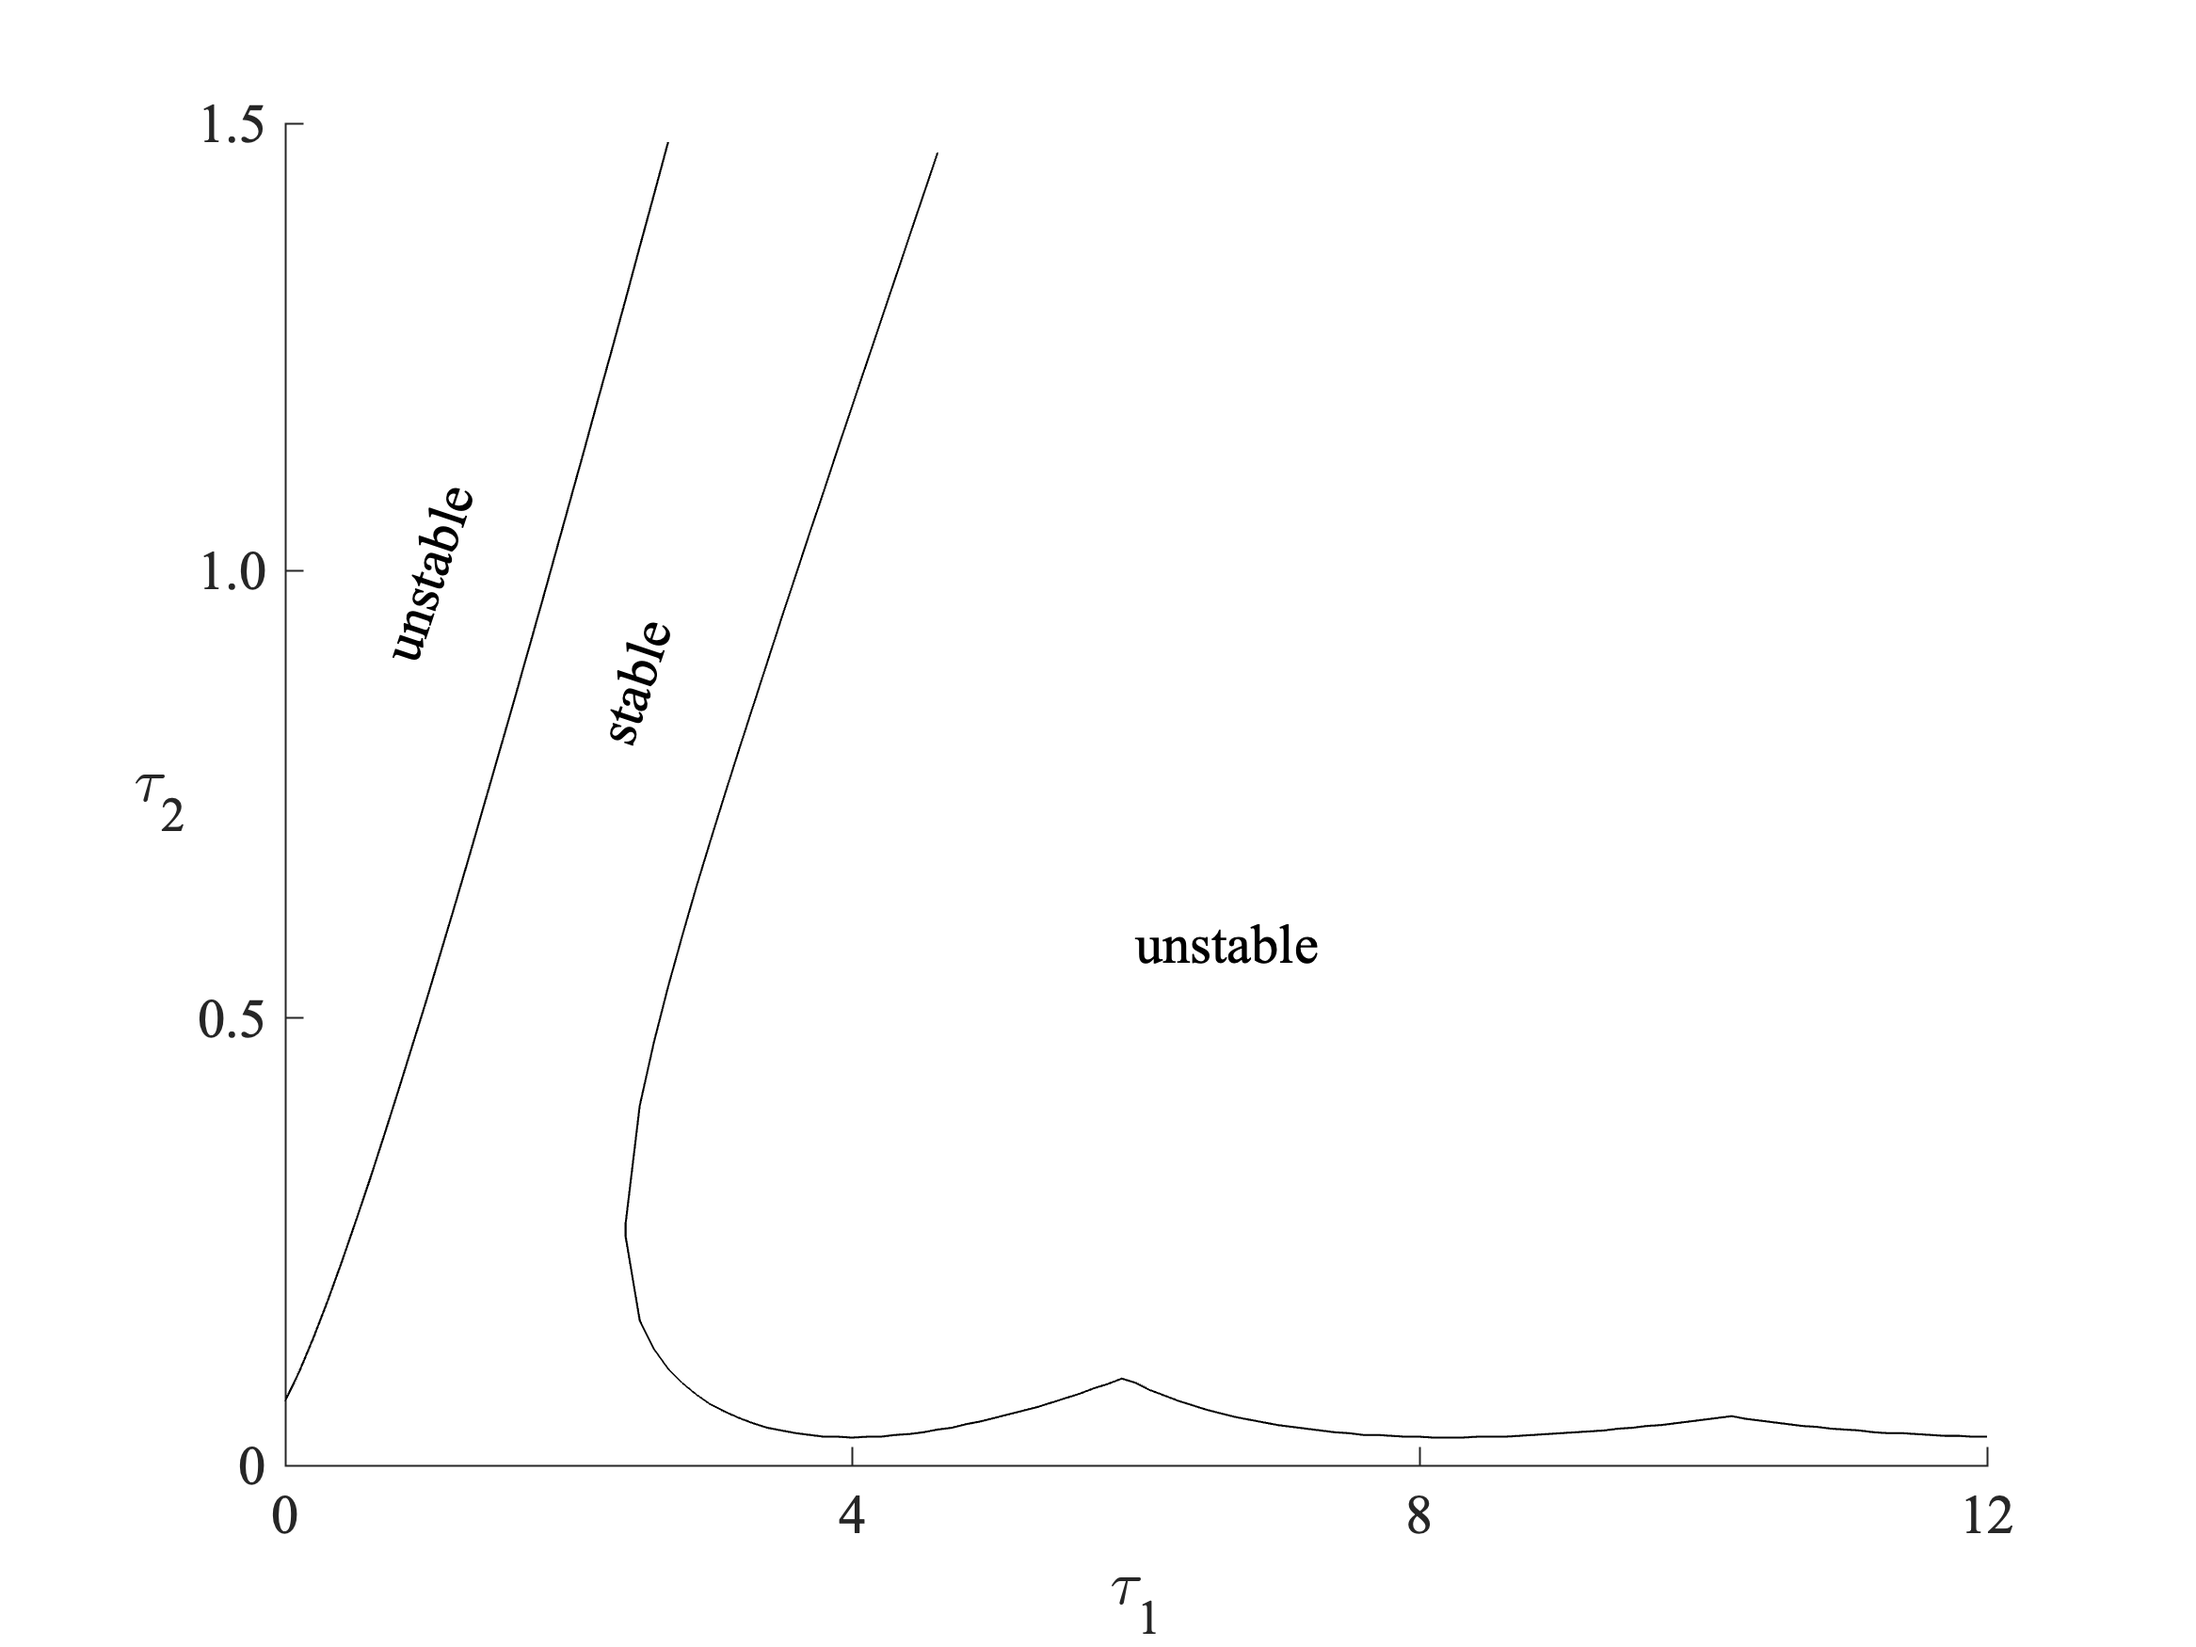
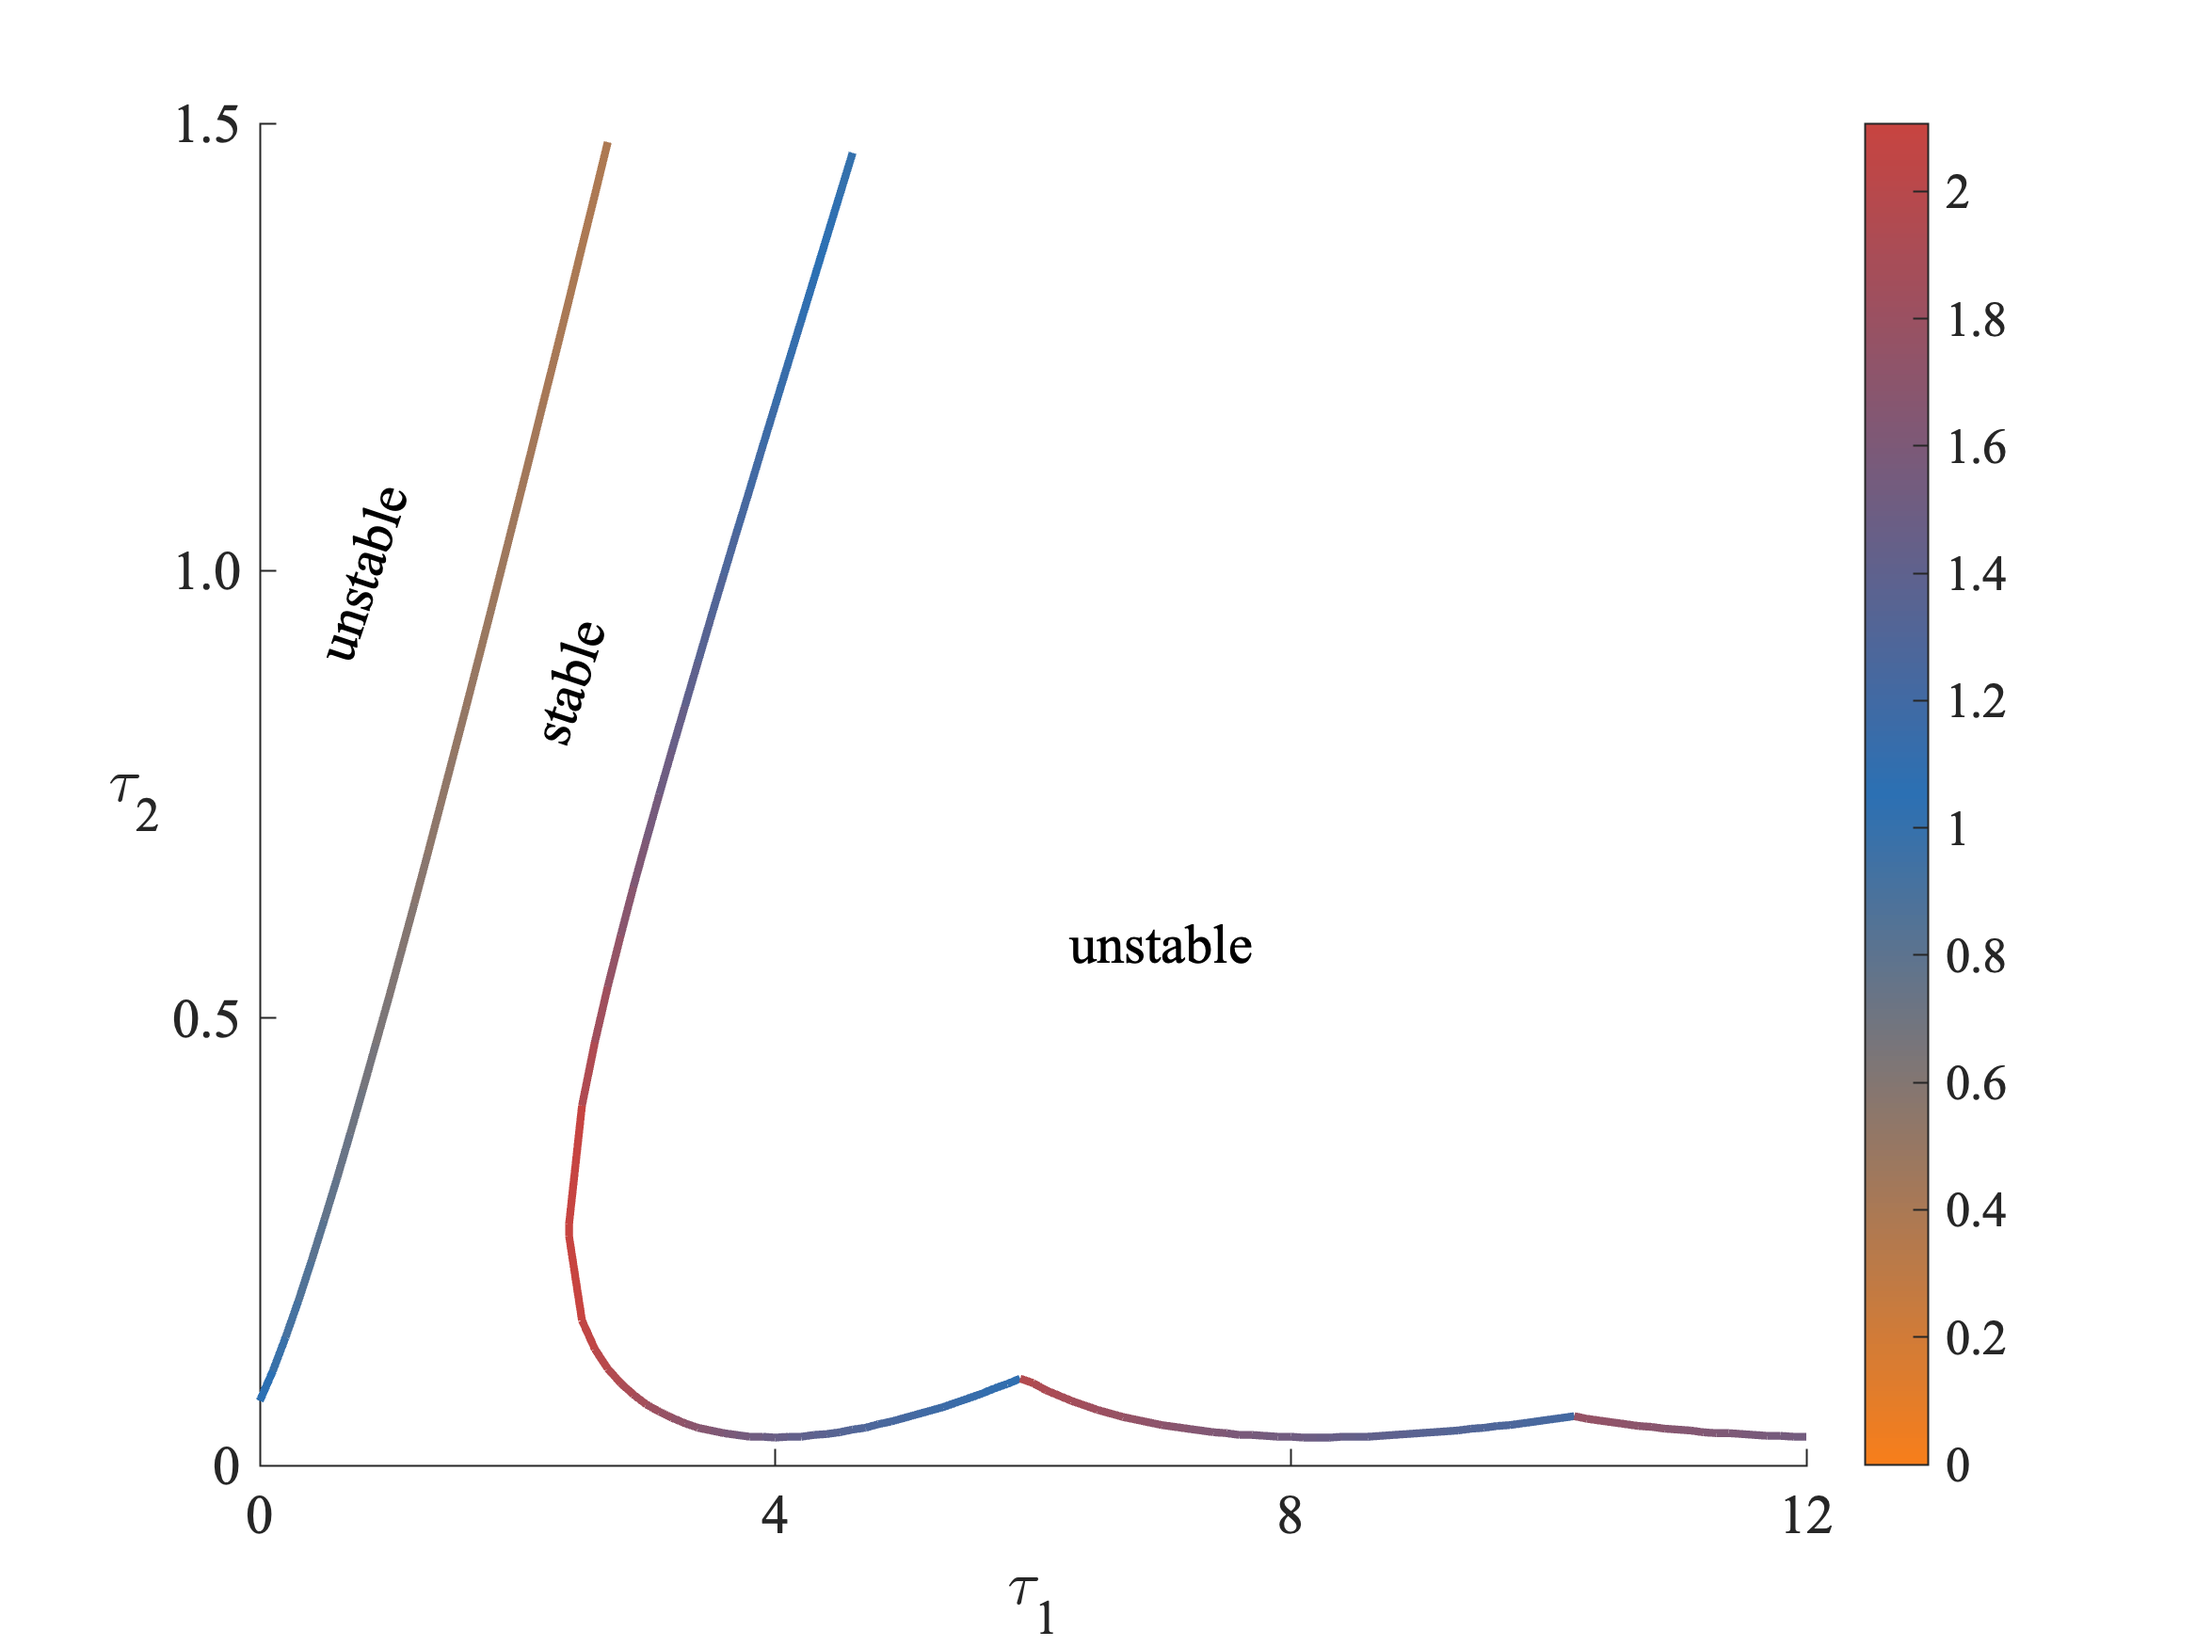
Add omega colour bar to figure 2

diff --git a/Code/delay_wilson_cowan.m b/Code/delay_wilson_cowan.m
@@ -118,8 +118,55 @@ figure(2);
 clf; hold on;
 
 % Plot bifurcation lines
-plot(bifn.line_1(1,:), bifn.line_1(2,:), 'k')
-plot(bifn.line_2(1,:), bifn.line_2(2,:), 'k')
+% plot(bifn.line_1(1,:), bifn.line_1(2,:), 'k')
+% plot(bifn.line_2(1,:), bifn.line_2(2,:), 'k')
+
+% Define RGB values for the colours
+colour1 = [247, 126, 27] / 255; % #f77e1b
+colour2 = [44, 112, 179] / 255; % #2c70b3
+colour3 = [199, 68, 64] / 255; % #c74440
+
+customColormap = [linspace(colour1(1), colour2(1), 256/2)', ...
+                  linspace(colour1(2), colour2(2), 256/2)', ...
+                  linspace(colour1(3), colour2(3), 256/2)'; ...
+                  linspace(colour2(1), colour3(1), 256/2)', ...
+                  linspace(colour2(2), colour3(2), 256/2)', ...
+                  linspace(colour2(3), colour3(3), 256/2)'];
+
+
+% Define the frequency range explicitly
+freqMin = 0; % Minimum frequency value
+freqMax = max(cellfun(@max, bifn.omegas)); % Maximum frequency value
+
+for i = 1:length(bifn.line_1)-1
+    % Define each segment
+    x_seg = [bifn.line_1(1,i), bifn.line_1(1,i+1)];
+    y_seg = [bifn.line_1(2,i), bifn.line_1(2,i+1)];
+    
+    % Map frequency to colormap index without normalisation
+    freq = bifn.line_1a(i+1);
+    colourIdx = round(((freq - freqMin) / (freqMax - freqMin)) * (256 - 1)) + 1;
+    colourIdx = max(min(colourIdx, 256), 1); % Ensure index is within bounds
+    colour = customColormap(colourIdx, :);
+    
+    % Plot the segment with the corresponding colour
+    plot(x_seg, y_seg, 'Color', colour, 'LineWidth', 2);
+end
+
+for i = 1:length(bifn.line_2)-1
+    % Define each segment
+    x_seg = [bifn.line_2(1,i), bifn.line_2(1,i+1)];
+    y_seg = [bifn.line_2(2,i), bifn.line_2(2,i+1)];
+    
+    % Map frequency to colormap index without normalisation
+    freq = bifn.line_2a(i+1);
+    colourIdx = round(((freq - freqMin) / (freqMax - freqMin)) * (256 - 1)) + 1;
+    colourIdx = max(min(colourIdx, 256), 1); % Ensure index is within bounds
+    colour = customColormap(colourIdx, :);
+    
+    % Plot the segment with the corresponding colour
+    plot(x_seg, y_seg, 'Color', colour, 'LineWidth', 2);
+end
 
 % Format Axes
 xlabel("\tau_1");
@@ -131,12 +178,17 @@ xticks([0 4 8 12])
 yticks([0 0.5 1.0 1.5])
 yticklabels({'0', '0.5', '1.0', '1.5'});
 
+% Add a colour bar for reference
+colormap(customColormap);
+clim([freqMin freqMax]); % Set the colour axis to match your data range
+colorbar;
+
 % Add annotations
-annotation('textbox',[0.2046 0.5762 0.1219 0.0619],'String','unstable',...
+annotation('textbox',[0.1746 0.5762 0.1219 0.0619],'String','unstable',...
     'Rotation',71.5,'FontSize',14,'FontName','Times','EdgeColor','none');
-annotation('textbox',[0.3028 0.5262 0.0969 0.0619],'String','stable',...
+annotation('textbox',[0.2728 0.5262 0.0969 0.0619],'String','stable',...
     'Rotation',71.5,'FontSize',14,'FontName','Times','EdgeColor','none');
-annotation('textbox',[0.5081 0.3905 0.1219 0.0619],'String','unstable',...
+annotation('textbox',[0.4781 0.3905 0.1219 0.0619],'String','unstable',...
     'FontSize',14,'FontName','Times','EdgeColor','none');
 
 % Save figure

diff --git a/Code/helper_functions/ddeBifn.m b/Code/helper_functions/ddeBifn.m
@@ -6,6 +6,7 @@ function bifn = ddeBifn(p)
     
     % Preallocate storage for bifurcation points
     bifn.sols = arrayfun(@(x) nan(2, 121), 1:3, 'UniformOutput', false);
+    bifn.omegas = arrayfun(@(x) nan(1, 121), 1:3, 'UniformOutput', false);
     
     % Iterate over tau1 values
     for i = 1:length(p.tau1_vals)
@@ -32,32 +33,66 @@ function bifn = ddeBifn(p)
         end
         
         % If solutions exist, find unique tau2 values
-        if ~isempty(sols)        
+        if ~isempty(sols)
+            if tau1 == 2.6
+                disp('')
+            end
             % Remove repeated solutions of tau2
             sols_unique = unique(sols(:,1),'rows');
+            % Preallocate an array to store the mode omega values
+            omegas_unique = zeros(size(sols_unique));
+            
+            % Loop through each unique tau2 value and find the mode of omega
+            for j = 1:length(sols_unique)
+                % Find the rows corresponding to the current tau2 value
+                idx = (sols(:,1) == sols_unique(j));
+                
+                % Extract the corresponding omega values (from the second column)
+                omega_values = sols(idx, 2);
+                
+                % Compute the mode of the omega values
+                omegas_unique(j) = mode(omega_values);
+            end
     
             if tau1 <= 4.6
                 if size(sols_unique,1) == 1
                     bifn.sols{3}(:,i) = [tau1, sols_unique(1,1)];
+
+                    bifn.omegas{3}(:,i) = [omegas_unique(1,1)];
                 elseif size(sols_unique,1) == 2
                     bifn.sols{1}(:,i) = [tau1, sols_unique(1,1)];
                     bifn.sols{2}(:,i) = [tau1, sols_unique(2,1)];
+
+                    bifn.omegas{1}(:,i) = [omegas_unique(1,1)];
+                    bifn.omegas{2}(:,i) = [omegas_unique(2,1)];
                 elseif size(sols_unique,1) >= 3
                     bifn.sols{1}(:,i) = [tau1, sols_unique(1,1)];
                     bifn.sols{2}(:,i) = [tau1, sols_unique(2,1)];
                     bifn.sols{3}(:,i) = [tau1, sols_unique(3,1)];
+
+                    bifn.omegas{1}(:,i) = [omegas_unique(1,1)];
+                    bifn.omegas{2}(:,i) = [omegas_unique(2,1)];
+                    bifn.omegas{3}(:,i) = [omegas_unique(3,1)];
                 end
             else
                 bifn.sols{1}(:,i) = [tau1, sols_unique(1,1)];
+
+                bifn.omegas{1}(:,i) = [omegas_unique(1,1)];
             end
         end
     end
     
     bifn.line_1 = bifn.sols{3};
     bifn.line_1(:, any(isnan(bifn.line_1), 1)) = [];
+
+    bifn.line_1a = bifn.omegas{3};
+    bifn.line_1a(:, any(isnan(bifn.line_1a), 1)) = [];
     
     bifn.line_2 = [fliplr(bifn.sols{2}), bifn.sols{1}];
     bifn.line_2(:, any(isnan(bifn.line_2), 1)) = [];
+
+    bifn.line_2a = [fliplr(bifn.omegas{2}), bifn.omegas{1}];
+    bifn.line_2a(:, any(isnan(bifn.line_2a), 1)) = [];
 
 %% --------------------------------------------------------------------- %%
 % ------------------------------- bias(v) ------------------------------- %
